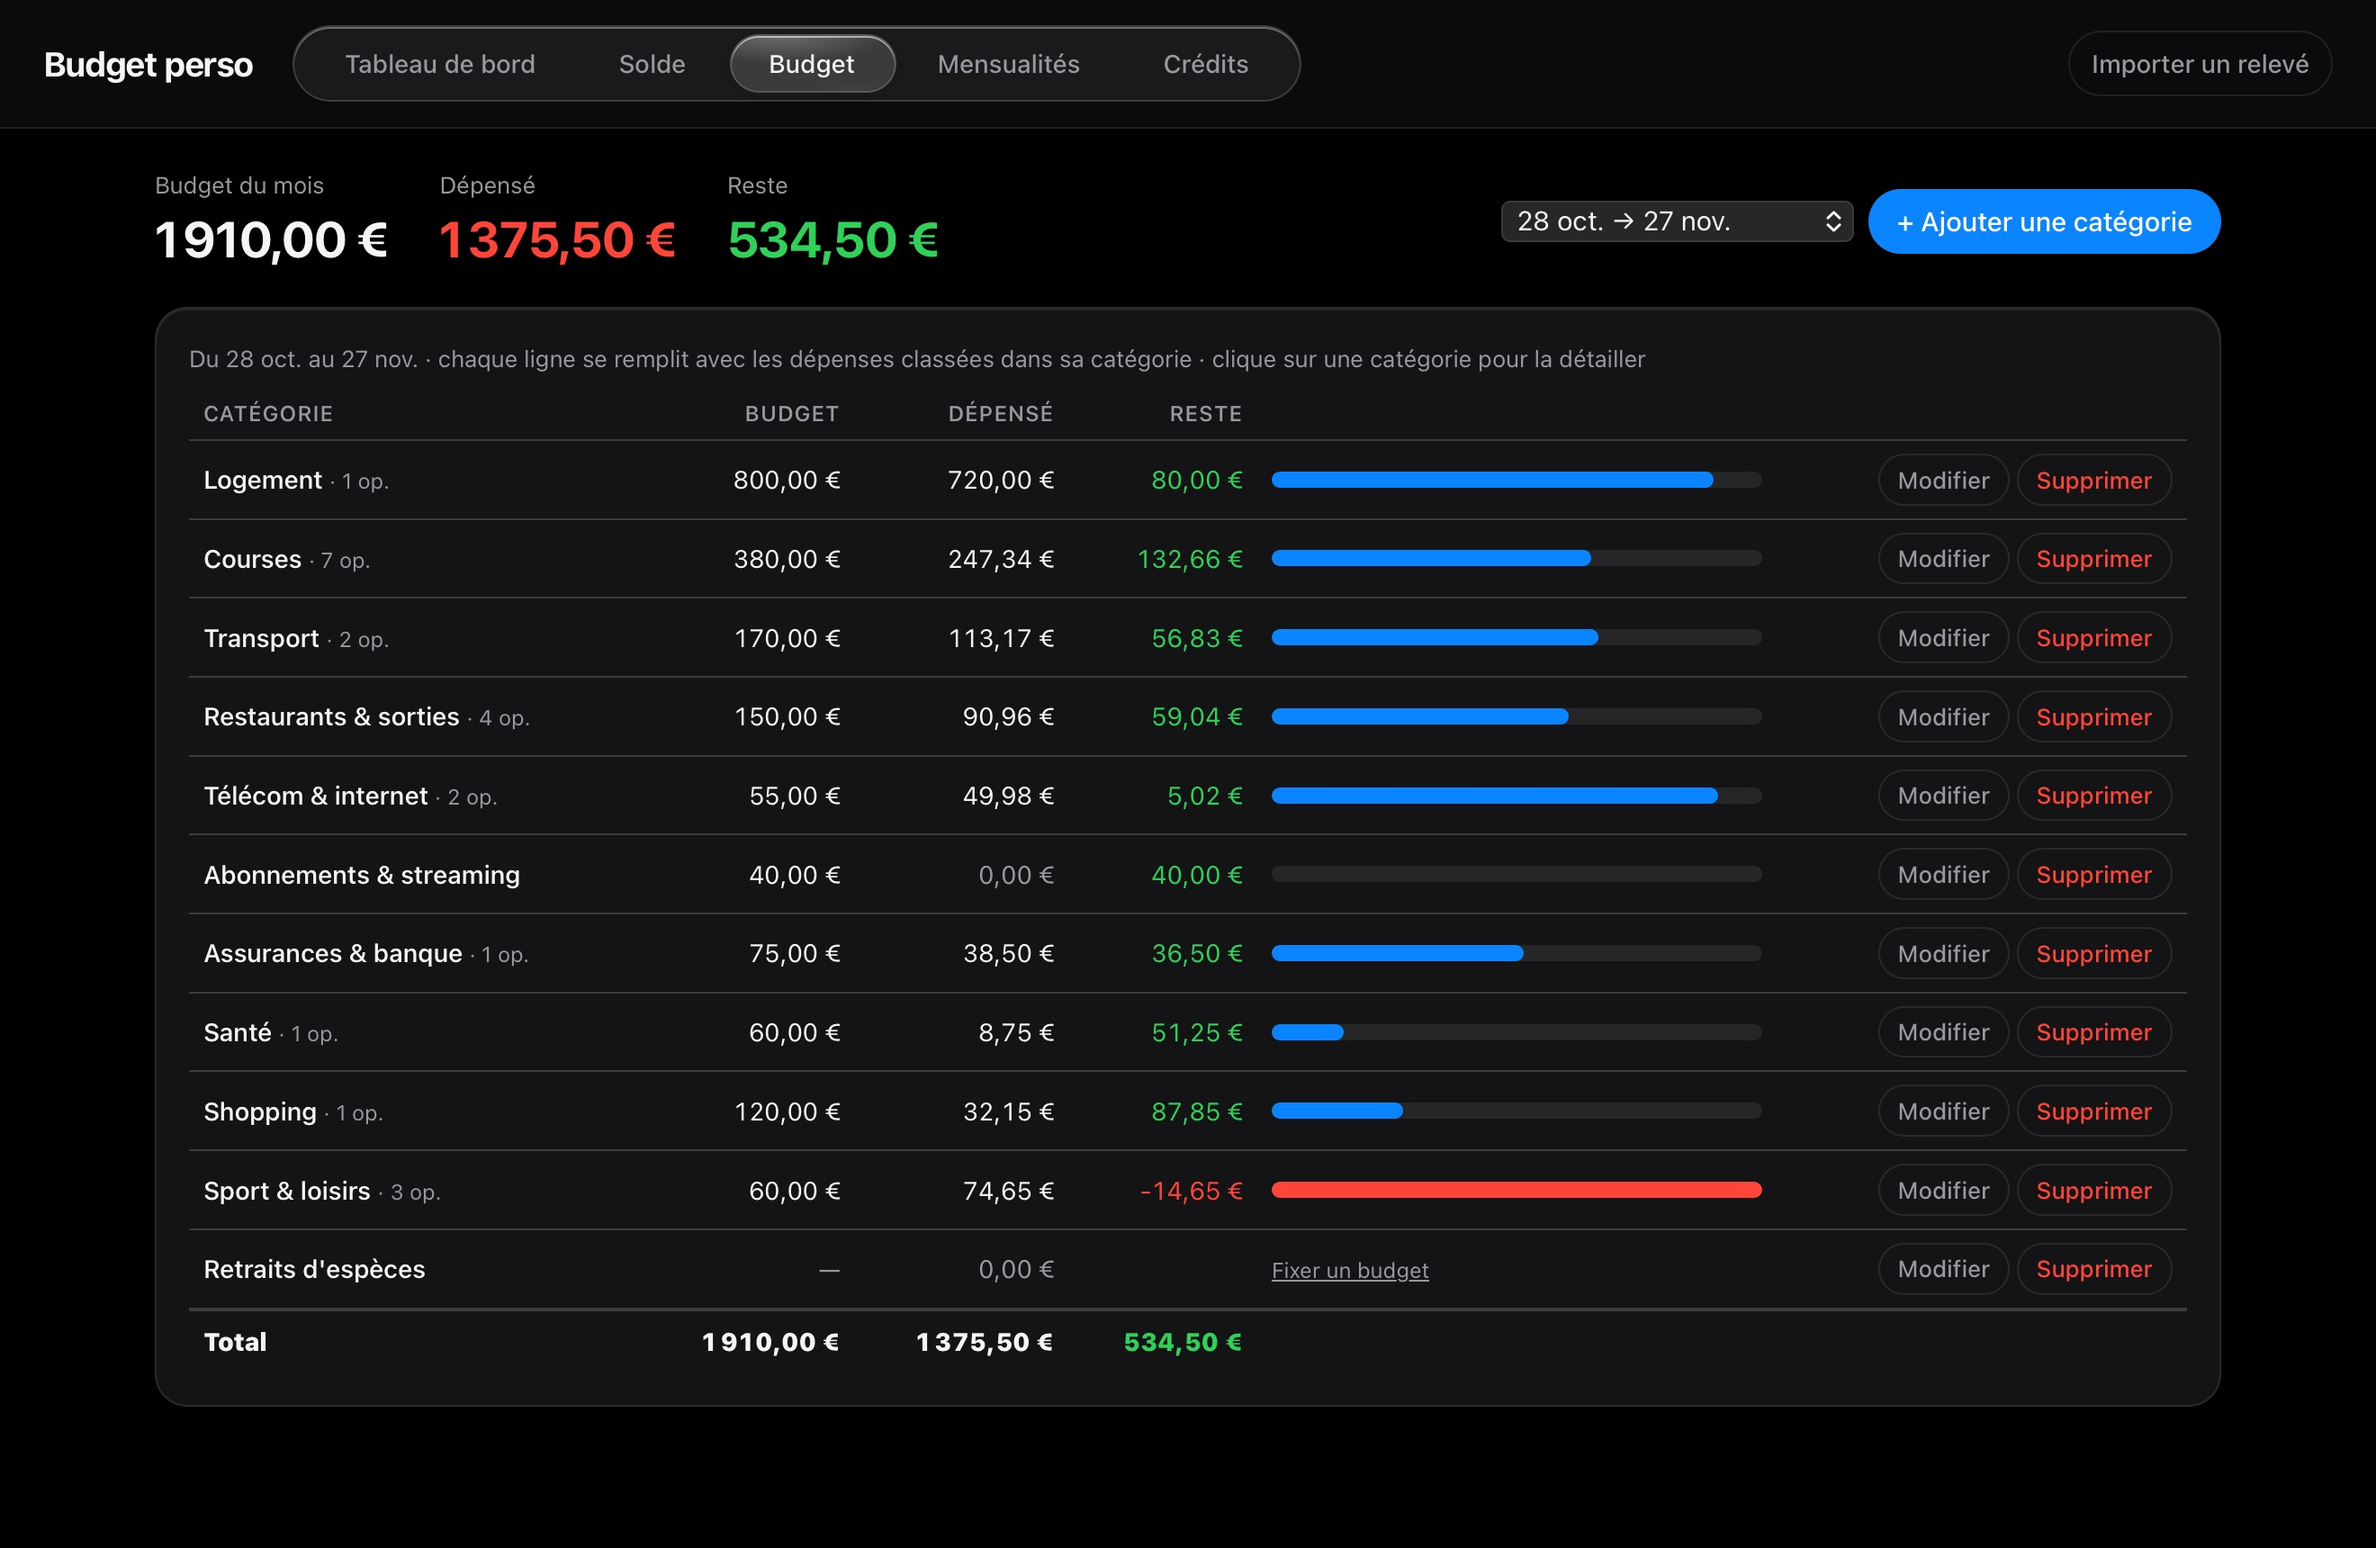
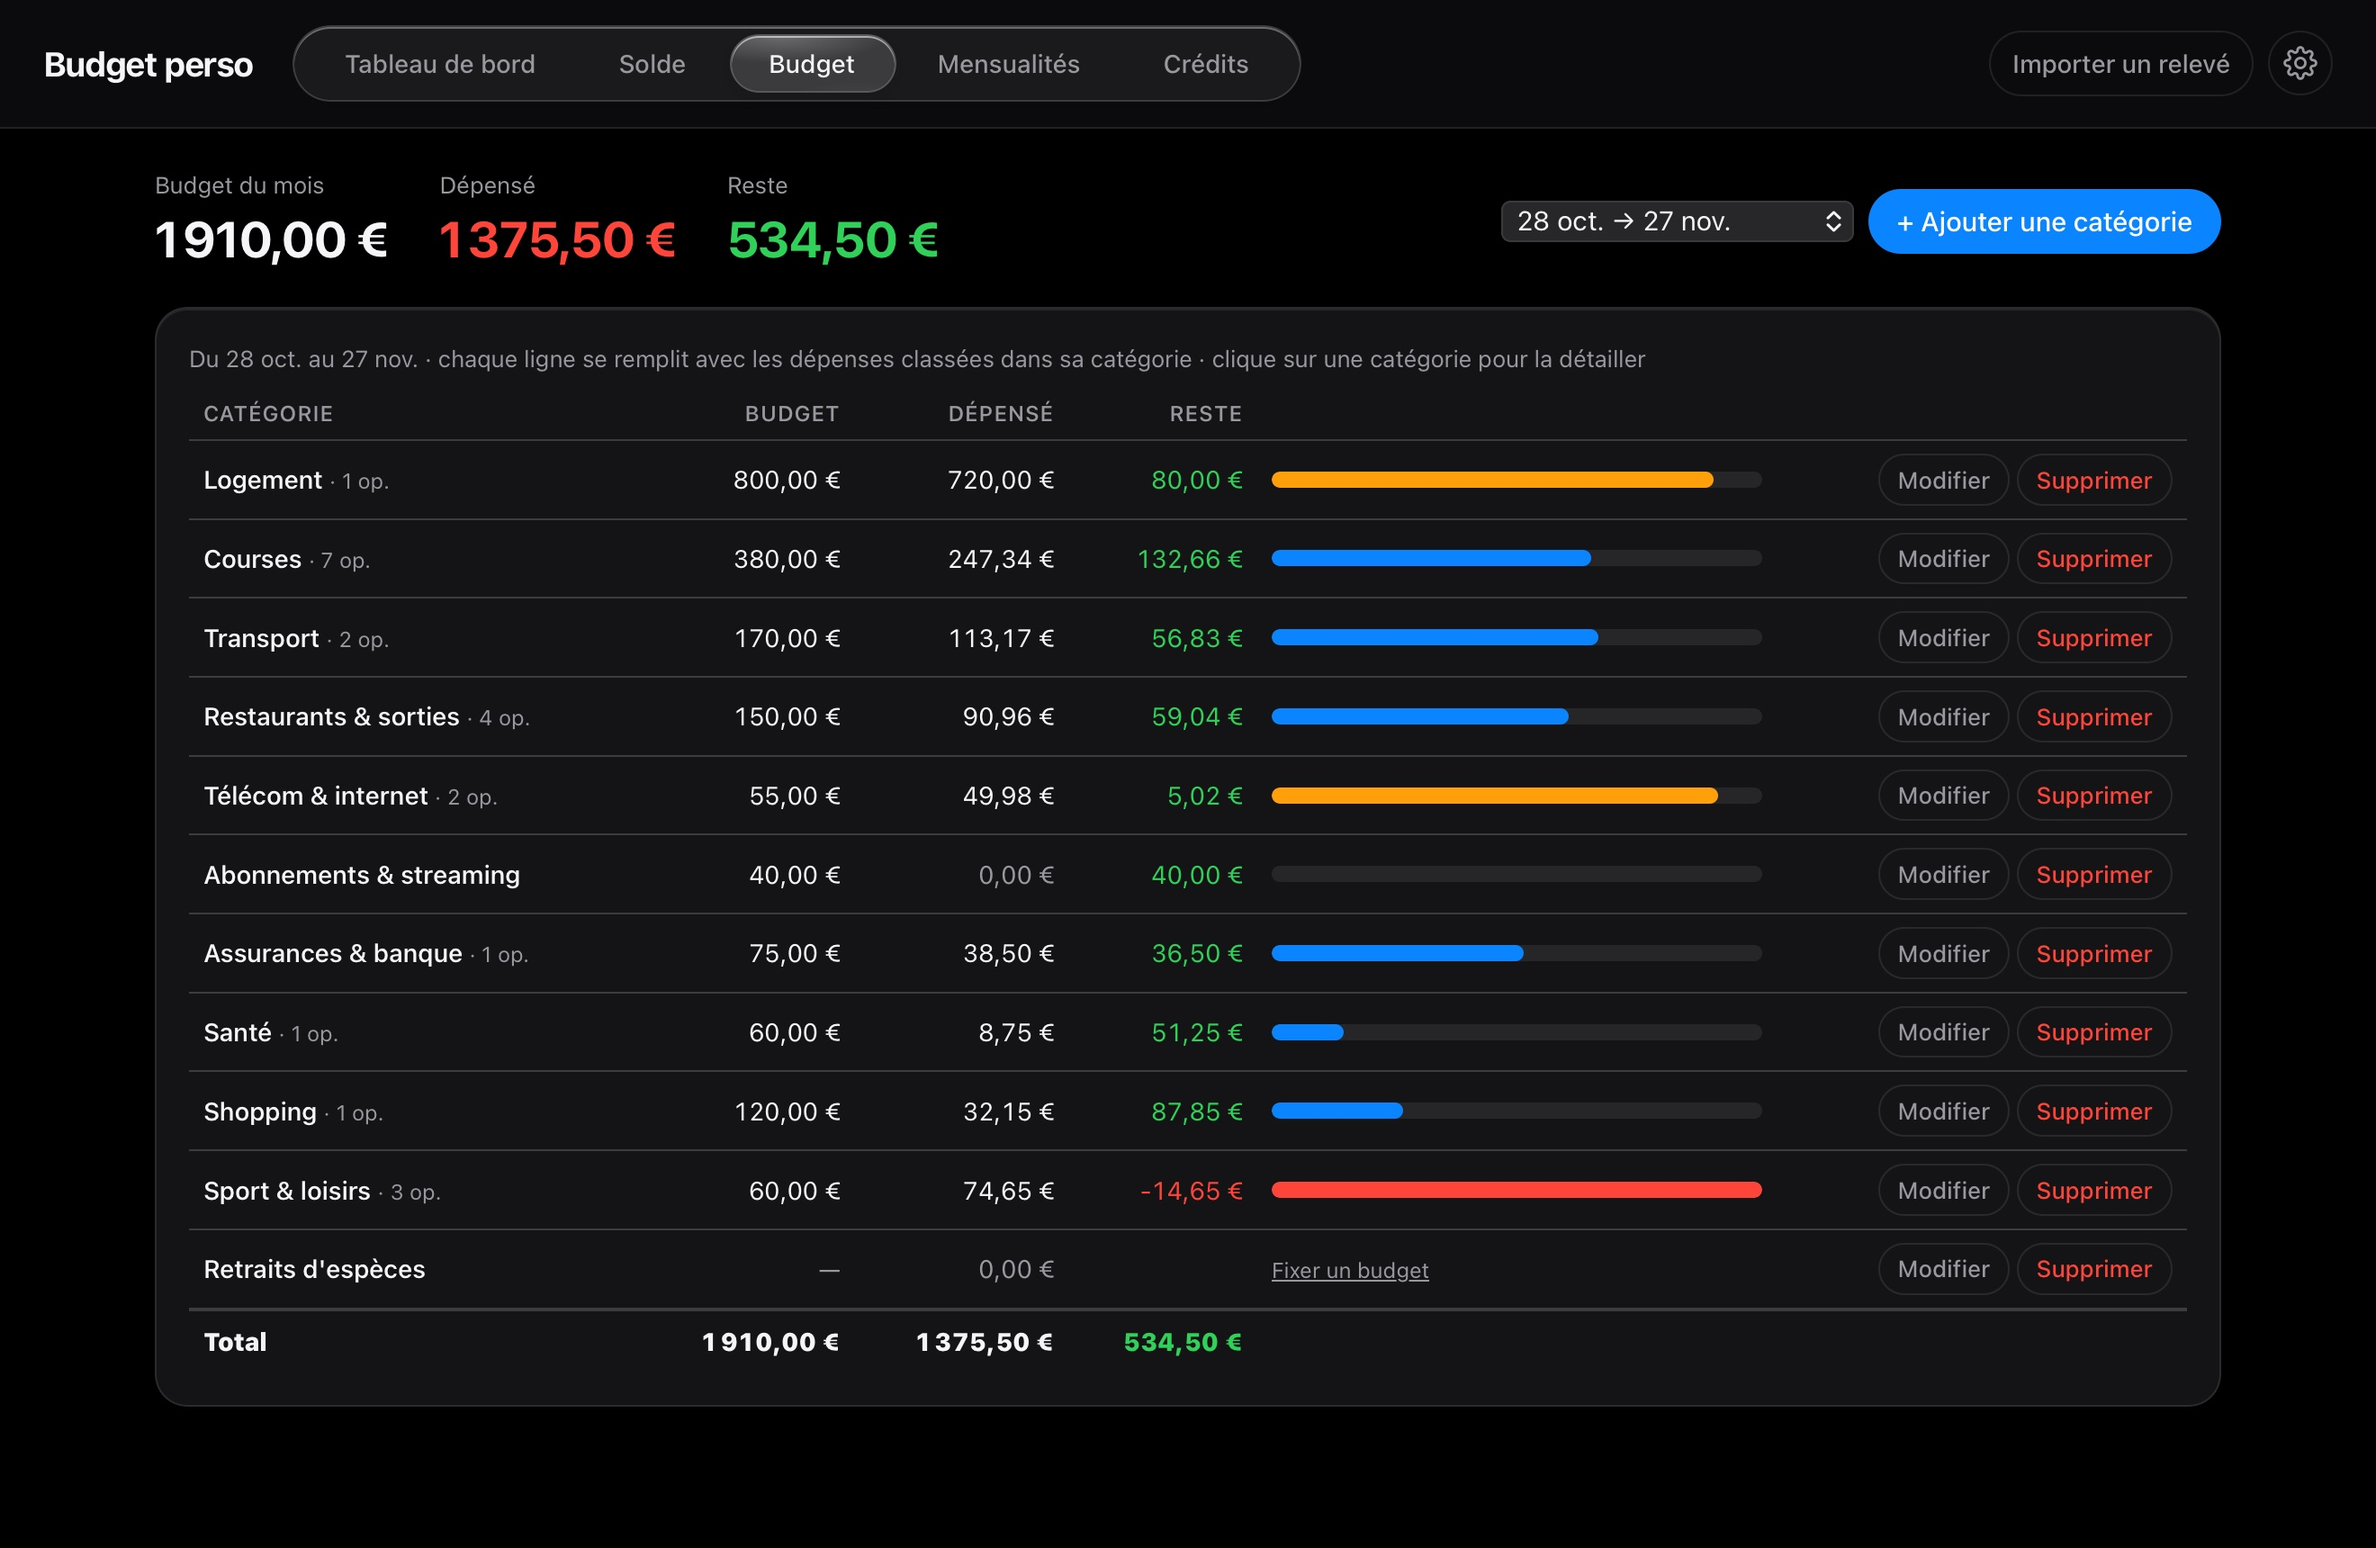
Site : version 4 (paramètres, nouvelles captures)

Changed region(s): [[0.528, 0.2773, 0.7144, 0.339], [0.528, 0.493, 0.7455, 0.5238], [0.8386, 0.0308, 0.9939, 0.0616]]

diff --git a/index.html b/index.html
@@ -173,6 +173,27 @@ h2 { font-size: clamp(36px, 5.6vw, 72px); line-height: 1.02; letter-spacing: -.0
 .dl a.mine .tag { display: block; }
 @media (max-width: 760px) { .dl { grid-template-columns: 1fr; } }
 
+/* ---------- À ton image (paramètres) ---------- */
+.custom { padding: 150px 0 40px; overflow: hidden; }
+.custom .glow { width: 620px; height: 620px; right: -160px; top: 10%; background: var(--blue); opacity: .2; transition: background .6s; }
+.custom-grid { display: grid; grid-template-columns: minmax(0, 5fr) minmax(0, 7fr); gap: 56px; align-items: center; }
+.try { display: flex; align-items: center; gap: 14px; flex-wrap: wrap; margin-top: 28px; color: var(--muted); font-size: 15px; }
+.dots { display: flex; gap: 10px; align-items: center; }
+.dots button, .dots .rainbow { width: 30px; height: 30px; border-radius: 50%; border: 0; cursor: pointer; padding: 0; background: var(--c);
+  box-shadow: inset 0 0 0 1px rgba(255,255,255,.15); transition: transform .35s cubic-bezier(.34,1.42,.52,1), box-shadow .25s; }
+.dots button:hover, .dots .rainbow:hover { transform: scale(1.15); }
+.dots button.on, .dots .rainbow.on { box-shadow: 0 0 0 3px var(--bg), 0 0 0 5px var(--c); }
+.dots .rainbow { position: relative; overflow: hidden; --c: #fff;
+  background: conic-gradient(from 90deg, #ff3b30, #ff9500, #ffcc00, #34c759, #00c7be, #0a84ff, #5e5ce6, #bf5af2, #ff2d55, #ff3b30); }
+.dots .rainbow input { position: absolute; inset: 0; opacity: 0; cursor: pointer; width: 100%; height: 100%; border: 0; padding: 0; }
+.chips { display: flex; flex-wrap: wrap; gap: 8px; margin-top: 26px; }
+.chips span { padding: 8px 14px; border-radius: 980px; background: var(--card); border: 1px solid var(--line); font-size: 14px; font-weight: 550; }
+.custom-shots { position: relative; padding-bottom: 90px; }
+.custom-shots .mac { will-change: transform; }
+.custom-shots .mac.reveal { transition: opacity 1s var(--ease), filter 1s var(--ease); }  /* le mouvement suit le défilement sans retard */
+.custom-shots .mac.small { position: absolute; width: 62%; right: -6%; bottom: 0; box-shadow: 0 30px 90px rgba(0,0,0,.75), 0 0 0 1px rgba(255,255,255,.08); }
+@media (max-width: 900px) { .custom-grid { grid-template-columns: 1fr; } .custom-shots .mac.small { right: 0; } }
+
 footer { border-top: 1px solid var(--line); padding: 40px 0 60px; color: var(--muted); font-size: 13px; }
 footer .wrap { display: flex; gap: 20px; flex-wrap: wrap; justify-content: space-between; }
 
@@ -227,7 +248,7 @@ footer .wrap { display: flex; gap: 20px; flex-wrap: wrap; justify-content: space
         <div class="step"><span class="kicker">Solde prévisionnel</span><h3>Sache ce qu'il te restera. Avant la fin du mois.</h3>
           <p>Prélèvements, crédits, salaire attendu et opérations annoncées par ta banque : le solde de fin de mois est calculé pour toi, et même celui de la veille de ta paie.</p></div>
         <div class="step"><span class="kicker">Budget</span><h3>Un budget par catégorie. Rempli tout seul.</h3>
-          <p>Fixe un montant pour les courses, les sorties ou le transport : chaque dépense vient remplir sa ligne, et tu vois tout de suite ce qu'il te reste.</p></div>
+          <p>Fixe un montant pour les courses, les sorties ou le transport : chaque dépense vient remplir sa ligne. La barre passe en orange à l'approche de la limite, en rouge si tu la dépasses.</p></div>
         <div class="step"><span class="kicker">Mensualités</span><h3>Plus aucun abonnement oublié.</h3>
           <p>Abonnements, charges fixes et rentrées régulières, avec le dernier paiement et le prochain. Un abonnement sans paiement depuis deux mois passe en « arrêté ».</p></div>
         <div class="step"><span class="kicker">Crédits</span><h3>Tes crédits, jusqu'à la dernière échéance.</h3>
@@ -263,6 +284,37 @@ footer .wrap { display: flex; gap: 20px; flex-wrap: wrap; justify-content: space
   </div>
 </section>
 
+<!-- ===================== À TON IMAGE (PARAMÈTRES) ===================== -->
+<section class="custom" id="parametres">
+  <div class="glow"></div>
+  <div class="wrap custom-grid">
+    <div class="custom-text">
+      <span class="kicker reveal">Paramètres</span>
+      <h2 class="reveal" style="--d:.08s">À ton image.</h2>
+      <p class="sub reveal" style="--d:.16s">Thème, couleurs, alertes, discrétion : une vraie fenêtre de réglages, avec une recherche pour tout retrouver.</p>
+      <div class="try reveal" style="--d:.22s">
+        <span>Essaie une couleur :</span>
+        <div class="dots" id="accentDots">
+          <button type="button" data-c="#0a84ff,#0062cc" style="--c:#0a84ff" class="on" aria-label="Bleu"></button>
+          <button type="button" data-c="#bf5af2,#8e3fd0" style="--c:#bf5af2" aria-label="Violet"></button>
+          <button type="button" data-c="#ff375f,#d42452" style="--c:#ff375f" aria-label="Rose"></button>
+          <button type="button" data-c="#ff9f0a,#e07000" style="--c:#ff9f0a" aria-label="Orange"></button>
+          <button type="button" data-c="#30d158,#1c9e45" style="--c:#30d158" aria-label="Vert"></button>
+          <label class="rainbow" title="N'importe quelle couleur"><input type="color" id="accentPick" value="#0a84ff" aria-label="Couleur au choix"></label>
+        </div>
+      </div>
+      <div class="chips reveal" style="--d:.3s">
+        <span>Clair, sombre ou automatique</span><span>Roue des couleurs</span><span>Mode discret</span><span>Alerte de budget</span>
+        <span>Alerte de solde bas</span><span>Taille du texte</span><span>Export CSV</span><span>Sauvegarde</span><span>Synchro automatique</span>
+      </div>
+    </div>
+    <div class="custom-shots">
+      <div class="mac reveal" id="prefMac"><div class="bar"><i></i><i></i><i></i></div><div class="screen"><img src="images/parametres.jpg" alt="Fenêtre Paramètres : thème et roue des couleurs" loading="lazy"></div></div>
+      <div class="mac small reveal" style="--d:.15s" id="prefMac2"><div class="bar"><i></i><i></i><i></i></div><div class="screen"><img src="images/parametres-alertes.jpg" alt="Fenêtre Paramètres : alertes de budget et de solde bas" loading="lazy"></div></div>
+    </div>
+  </div>
+</section>
+
 <!-- ===================== PHRASE ===================== -->
 <section class="statement" id="confidentialite">
   <div class="glow"></div>
@@ -281,6 +333,8 @@ footer .wrap { display: flex; gap: 20px; flex-wrap: wrap; justify-content: space
     <div class="tile w2 cyan reveal"><span class="ico" style="background:rgba(46,230,214,.18)">🔐</span><h4>Identifiants au coffre</h4><p>Gardés chiffrés dans le trousseau de ton système, jamais dans un fichier.</p></div>
     <div class="tile w2 reveal" style="--d:.08s"><span class="ico" style="background:rgba(10,132,255,.18)">✍</span><h4>Mises à jour signées</h4><p>Chaque mise à jour est vérifiée par une signature : une version modifiée est refusée.</p></div>
     <div class="tile w2 pink reveal" style="--d:.16s"><span class="ico" style="background:rgba(255,77,141,.2)">🏦</span><h4>Plusieurs banques</h4><p>Tous tes comptes au même endroit. Ou importe simplement un relevé CSV ou OFX.</p></div>
+    <div class="tile w3 reveal"><span class="ico" style="background:rgba(191,90,242,.2)">🙈</span><h4>Mode discret</h4><p>Un raccourci floute tous les montants : pratique en public ou en partage d'écran. Passe la souris dessus pour les lire.</p></div>
+    <div class="tile w3 cyan reveal" style="--d:.08s"><span class="ico" style="background:rgba(46,230,214,.18)">💾</span><h4>Tes données, à emporter</h4><p>Exporte toutes tes opérations en CSV pour Excel ou Numbers, ou crée une sauvegarde complète en un clic.</p></div>
   </div>
 </section>
 
@@ -288,8 +342,8 @@ footer .wrap { display: flex; gap: 20px; flex-wrap: wrap; justify-content: space
 <section class="wrap modes">
   <div class="center">
     <span class="kicker reveal">Design</span>
-    <h2 class="reveal" style="--d:.08s">Clair ou sombre.<br>Comme ton ordinateur.</h2>
-    <p class="sub reveal" style="--d:.16s">Fais glisser pour comparer.</p>
+    <h2 class="reveal" style="--d:.08s">Clair ou sombre.<br>Comme tu préfères.</h2>
+    <p class="sub reveal" style="--d:.16s">Automatique, clair ou sombre : ça se choisit dans les paramètres. Fais glisser pour comparer.</p>
   </div>
   <div class="compare reveal" id="compare">
     <img src="images/dash.jpg" alt="Budget perso en mode sombre" loading="lazy">
@@ -375,9 +429,22 @@ footer .wrap { display: flex; gap: 20px; flex-wrap: wrap; justify-content: space
   cmp.addEventListener("pointermove", e => drag && setX(e.clientX));
   addEventListener("pointerup", () => drag = false);
 
+  // Essai de couleur d'accentuation (comme dans les paramètres du logiciel)
+  const root = document.documentElement.style;
+  const setAccent = (c1, c2, el) => {
+    root.setProperty("--blue", c1); root.setProperty("--blue2", c2);
+    $$("#accentDots button, #accentDots .rainbow").forEach(b => b.classList.toggle("on", b === el));
+  };
+  $$("#accentDots button").forEach(b => b.onclick = () => { const [a, c] = b.dataset.c.split(","); setAccent(a, c, b); });
+  $("#accentPick").addEventListener("input", e => {
+    const h = e.target.value, n = parseInt(h.slice(1), 16), dk = v => Math.round(v * .78);
+    const c2 = "#" + [n >> 16, (n >> 8) & 255, n & 255].map(v => dk(v).toString(16).padStart(2, "0")).join("");
+    const lab = e.target.parentElement; lab.style.setProperty("--c", h); setAccent(h, c2, lab);
+  });
+
   // ---------- Animations liées au défilement ----------
   const nav = $("#nav"), heroMac = $("#heroMac"), tour = $(".tour"), steps = $$(".tour .step"), dots = $$(".tour .dots i"),
-        shots = $$(".tour .screen img"), zoomMac = $("#zoomMac"), zoomFrame = $("#zoomFrame"), chips = $$(".chip"), glows = $$("[data-par]");
+        shots = $$(".tour .screen img"), zoomMac = $("#zoomMac"), prefMac = $("#prefMac"), prefMac2 = $("#prefMac2"), zoomFrame = $("#zoomFrame"), chips = $$(".chip"), glows = $$("[data-par]");
   let active = 0, ticking = false;
   function frame() {
     ticking = false;
@@ -403,6 +470,10 @@ footer .wrap { display: flex; gap: 20px; flex-wrap: wrap; justify-content: space
     zoomMac.style.transform = `scale(${.82 + .18 * zp}) translateY(${(1 - zp) * 60}px)`;
     zoomMac.style.opacity = .3 + .7 * clamp(zp * 1.6, 0, 1);
     chips.forEach(c => { const f = +c.dataset.fly; c.style.transform = `translate(${f * (1 - zp) * 120}px, ${(1 - zp) * 80}px)`; c.style.opacity = clamp(zp * 2 - .6, 0, 1); });
+    // Paramètres : les deux fenêtres glissent à des vitesses différentes (profondeur)
+    const cs = prefMac.parentElement.getBoundingClientRect(), cp = clamp((H - cs.top) / (H + cs.height), 0, 1);
+    prefMac.style.transform = `perspective(1400px) rotateY(${(1 - cp) * -10}deg) translateY(${(1 - cp) * 50}px)`;
+    prefMac2.style.transform = `translateY(${(.5 - cp) * 140}px)`;
     // Phrase : les mots s'allument un à un
     const wr = words.getBoundingClientRect(), wp = clamp((H * .85 - wr.top) / (wr.height + H * .35), 0, 1);
     const lit = wp * wordEls.length * 1.05;
